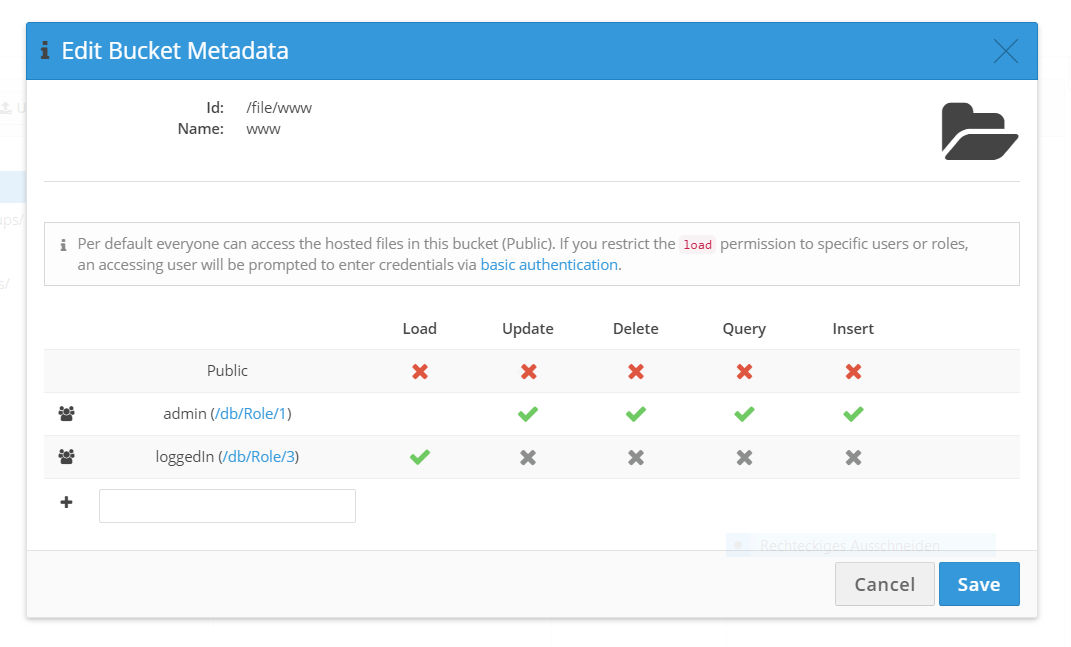
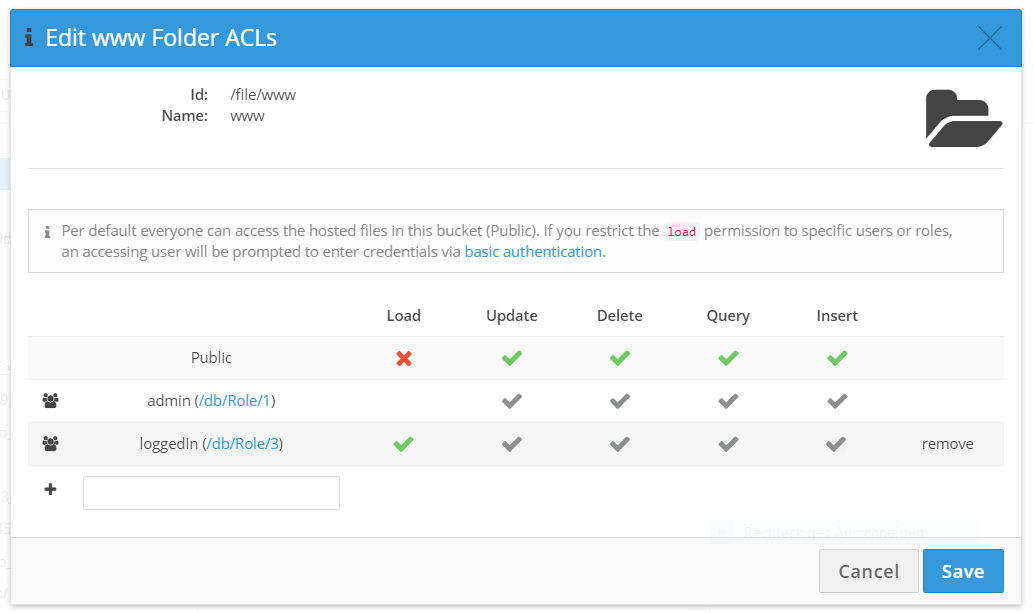
minor updates/corrections to the hosting docs (basic authentication).

diff --git a/src/topics/hosting/index.md b/src/topics/hosting/index.md
@@ -54,12 +54,12 @@ To serve your website under your own domain, you have to create a DNS entry and 
 such as **www.**yourdomain.com. In addition you should ensure that no other DNS-entry is set for the used domain.
 
 2. Log into your Baqend dashboard and open your app settings. 
-   In the Hosting section simply add your custom domain `www.yourdomain.com` and click the save button. 
+   In the Hosting section, simply add your custom domain `www.yourdomain.com` and click the save button. 
    Your domain will now be registered at the CDN. Instead of `<appName>.app.baqend.com` you can now use `www.yourdomain.com`.
 
-3. You can optionally configure a different **Domain root folder** then `www`. 
-   This allows you to host multiple Pages on the same Baqend App. 
-   Just specify a different file root folder and its content will served by your custom domain.
+3. Optionally, you can define a custom **Domain root folder** (default: `www`). 
+   This allows you to host multiple pages on the same Baqend app. 
+   Just specify a different file root folder and its content will be served by your custom domain.
 
 Consult your DNS provider's instructions to configure the CNAME record for your domain name. 
 The steps to add a CNAME record will vary for each registrar's control panel interface.
@@ -127,23 +127,26 @@ Behind the curtains, we are using [Let's Encrypt](https://letsencrypt.org/) to a
 
 ### Protect your Website with Basic Authentication
 
-It is quite common to protect QA or previews of a page with a [Basic Authentication](https://en.wikipedia.org/wiki/Basic_access_authentication),
+It is quite common to protect QA or staging environments with [Basic Authentication](https://en.wikipedia.org/wiki/Basic_access_authentication),
 also known as `.htaccess` protection.
-If you open the Dashboard navigate to Files and click the `Edit Bucket ACL` you can restrict the `load` permission to a
+If you open the dashboard, navigate to `files`, and click the `Edit Root Folder ACL` button, you can restrict the `load` permission to 
 specific roles and/or users. 
-You can add the `loggedIn` role for an example to restrict the access to the hosted page to only logged in users. 
-New Users can be created in the Dashboard **Data > User** table.
+For example, if you assign the *load permission* to the `loggedIn` role, only logged-in users will be able to access content hosted in the corresponding directory. 
+New Users can be created in the Dashboard **Data &gt; User** table.
+
+<div class="warning"><strong>Root-level permissions:</strong>
+Please note that you can only define permissions per root-level folder, i.e. at the granularity of the top level. Second-level (and below) folders inherit the permissions defined for their parents.
+</div>
 
 ![File Bucket ACLs](bucket-acl.png)
 
-Afterwards any unauthorized access to the hosted Website is prevented and the browser native prompt is shown to enter 
-the login credentials. 
-After the user have entered his correct credentials, he will be logged in and a cookie will be 
-set to keep the user logged in for 30 days per default. 
-(The login period can be changed in the Dashboard **Settings > Authentication > User session length**)
+When permissions other than `Public`are assigned, any unauthorized access to the hosted website is prevented: 
+When loading a protected site, the accessing user will be asked for login credentials through the browser-native authentication prompt. 
+After successful login, a cookie will be set to keep the user logged in for 30 days per default. 
+(The login period can be changed in the dashboard under **Settings > Authentication > User Session Length**)
 
   <div class="note"><strong>Note:</strong> 
-If you use the baqend SDK on the protected Page, any authorized user will also be loggedin in after the SDKs `connect` call.
+If you use the Baqend SDK on the protected page, any authorized user will also be loggedin in after the SDK's `connect` call.
 </div>
 
 

diff --git a/src/topics/logging/index.md b/src/topics/logging/index.md
@@ -140,5 +140,5 @@ The following data will be collected by us:
 - upload - The amount of data transferred from the client (includes head and body payload)
 - latency - The latency to handle the actual request measured by the fastly server 
 - cacheHit - Indicates if the request was directly served by the fastly server without contacting Baqend (Cache HIT)
-- origin - The Origin domain if the request was a CORS ([Cross-Origin Resource Sharing](https://developer.mozilla.org/en-US/docs/Web/HTTP/CORS)) request
-- query - a parsed representaion of all query paramaters. (Note that any `.` will be replaced with a `_`)
+- origin - The origin domain if the request was a CORS ([Cross-Origin Resource Sharing](https://developer.mozilla.org/en-US/docs/Web/HTTP/CORS)) request
+- query - a parsed representaion of all query parameters. (Note that any `.` will be replaced with a `_`)

diff --git a/src/topics/getting-started/index.md b/src/topics/getting-started/index.md
@@ -79,8 +79,8 @@ DB.connect('example');
 DB.connect('example', true);
 ```
 
-If you host your app on Baqend (See [Hsoting](/topics/hosting)) you must not specify any paramater. 
-The SDK will connect directly to the same domain and protocol of the served Page.
+If your app is [hosted on Baqend](/topics/hosting), you do not have to specify any parameters, since the 
+SDK will automatically detect and use the domain and protocol over which the page is served.
 
 ```js
 // No parameters needed if your App is hosted on Baqend
